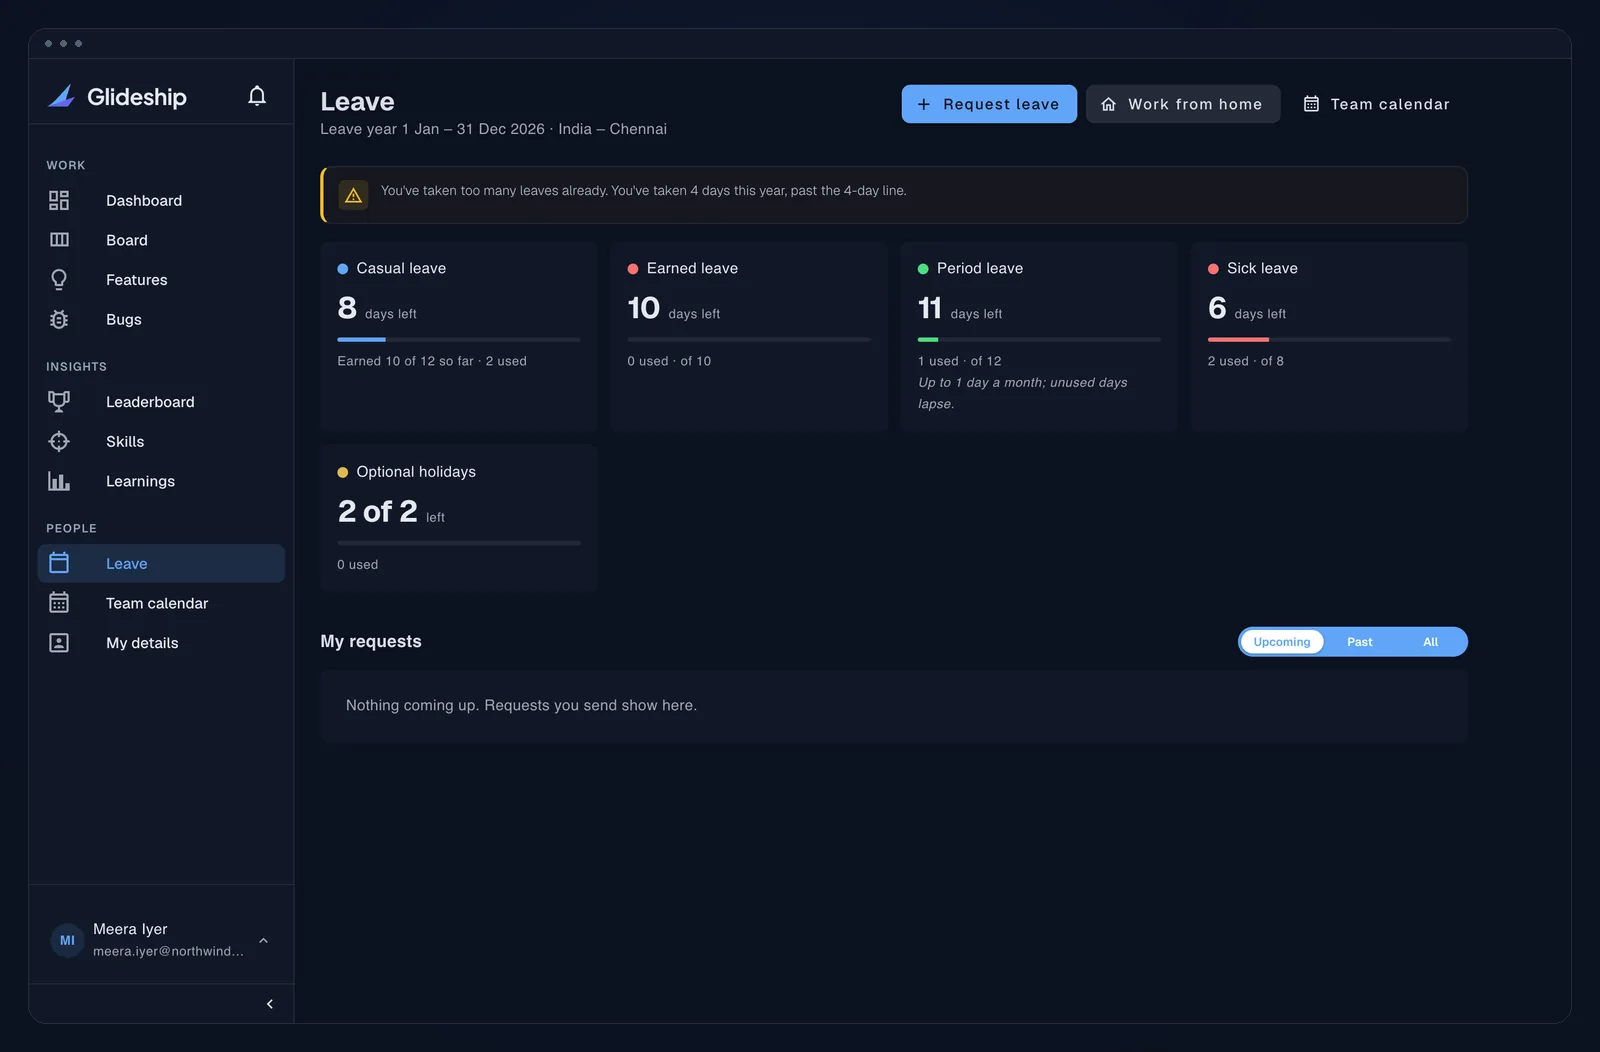
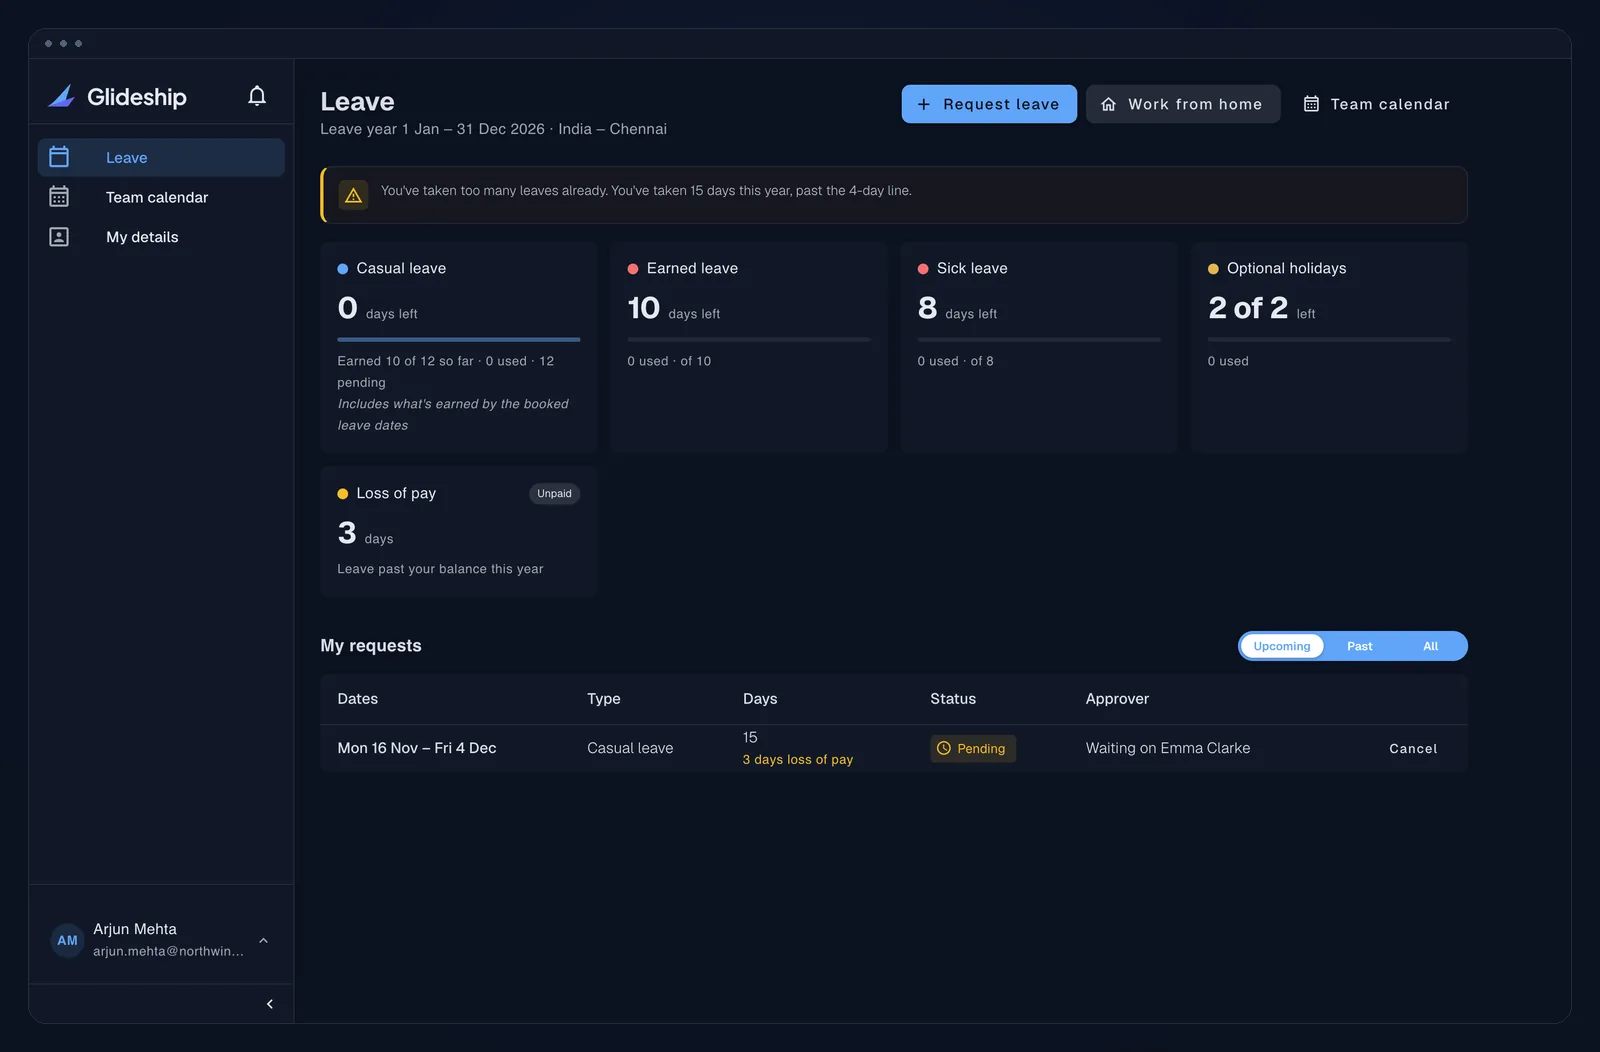
docs: retake the leave and tech spec screenshots (#386)
The leave home, request dialog and approval screenshots now show an
exhausted leave type as 0 days left with the extra days as loss of pay,
and the tech spec screenshot shows its rendered user flow. The leave
captions go back to describing the loss-of-pay card and warning.

diff --git a/README.md b/README.md
@@ -127,9 +127,9 @@ The rest of the company can use Glideship too. HR and Sales staff get a People w
 - **Team calendar and a daily Slack post.** One calendar for who is out and who is at home. A short post every working morning lists names only, never the leave type or reason, and nobody on leave is @mentioned.
 - **Employee records.** Work and personal details, bank and ID numbers, and documents. Sensitive fields and files are encrypted with AES-256-GCM under a separate HR key. Bank and ID numbers stay masked until someone reveals them, every reveal and download is logged, and each employee can see who opened their records.
 
-| Leave home — balances per leave type | Request dialog — days counted before you send |
+| Leave home — balances and loss of pay | Request dialog — days counted before you send |
 |---|---|
-| ![Leave home with balances per leave type](docs/images/people-leave-home-ui.webp) | ![Request dialog counting working days and the balance left after the request](docs/images/people-request-dialog-ui.webp) |
+| ![Leave home with balances per leave type and a loss-of-pay card](docs/images/people-leave-home-ui.webp) | ![Request dialog showing working days and a loss-of-pay warning](docs/images/people-request-dialog-ui.webp) |
 
 | Approvals — balance and overlaps on every card | Team calendar — leave, WFH and holidays |
 |---|---|
